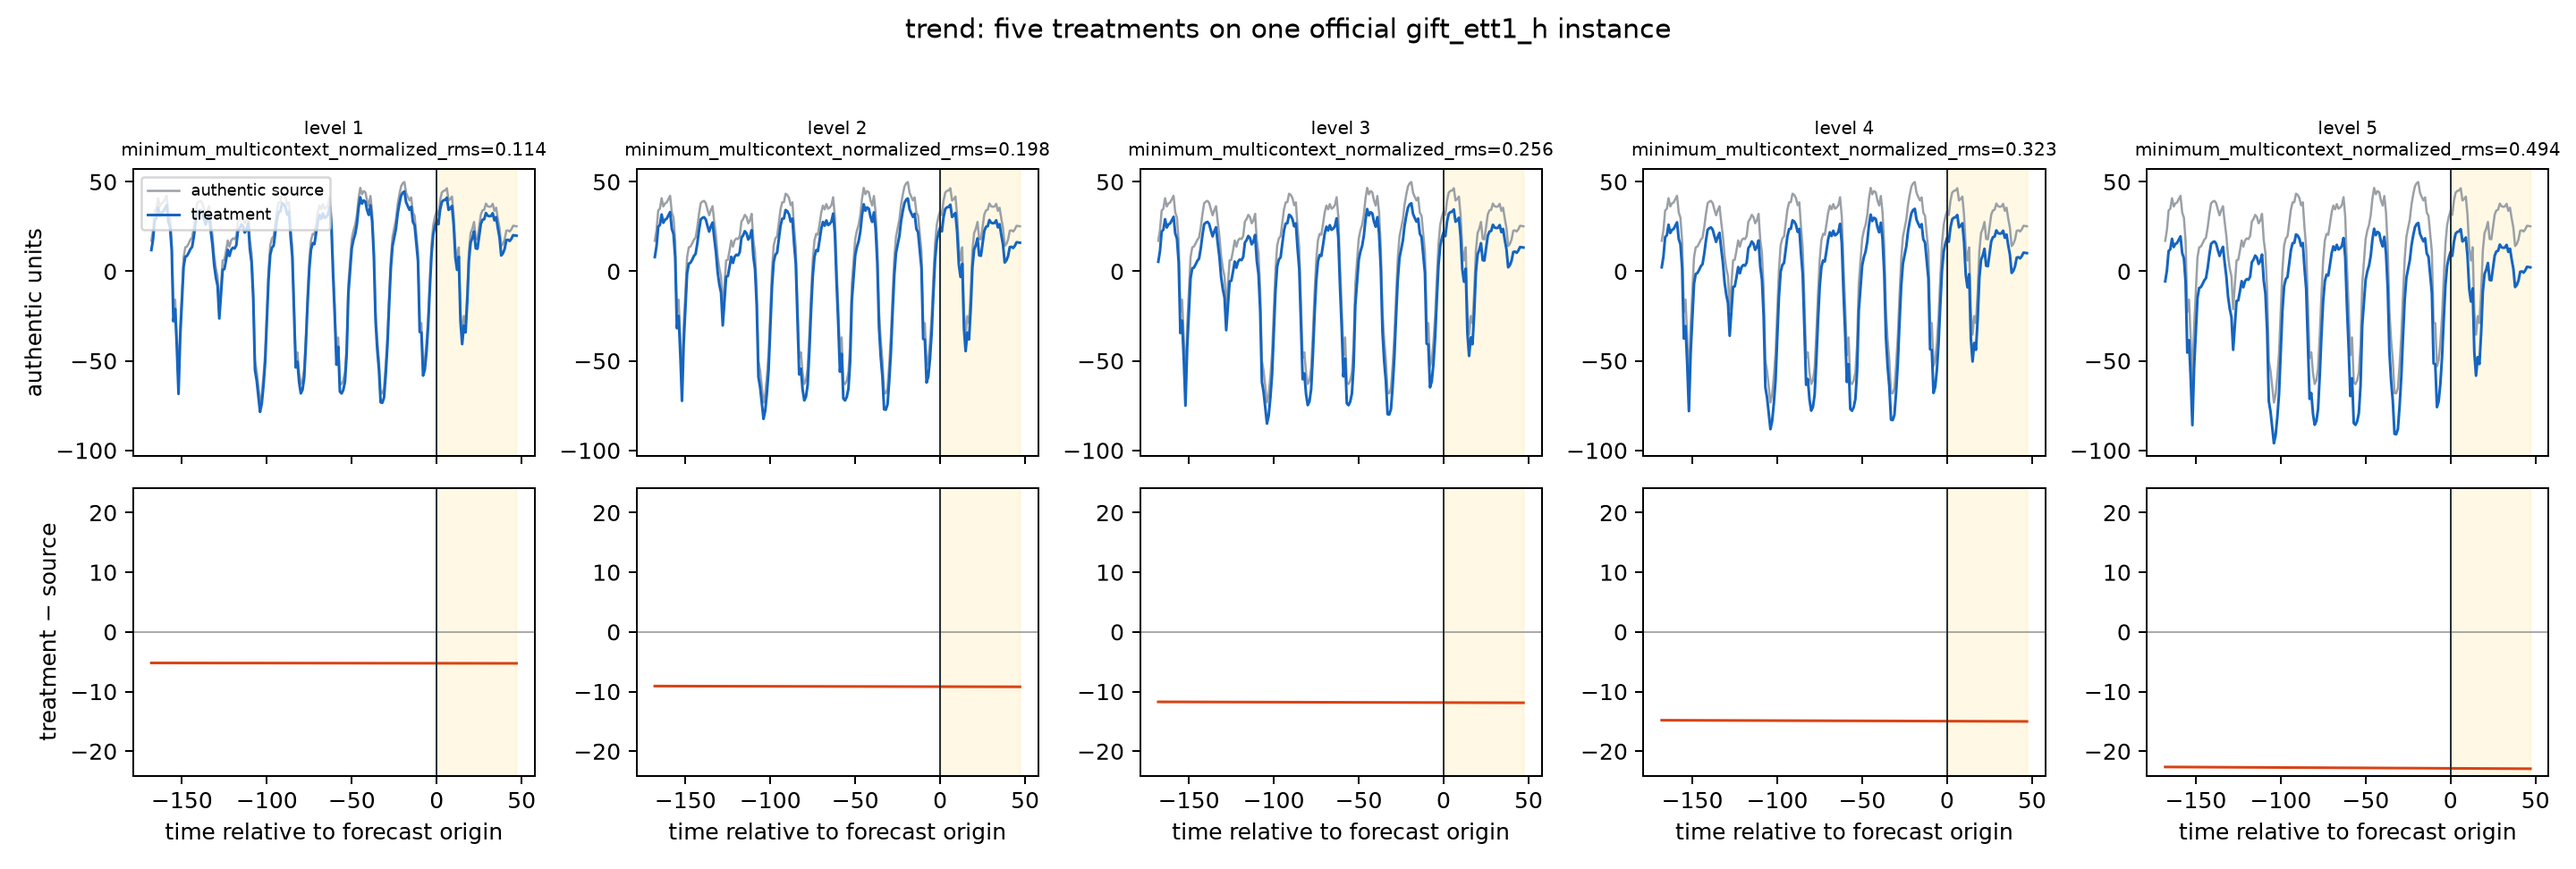
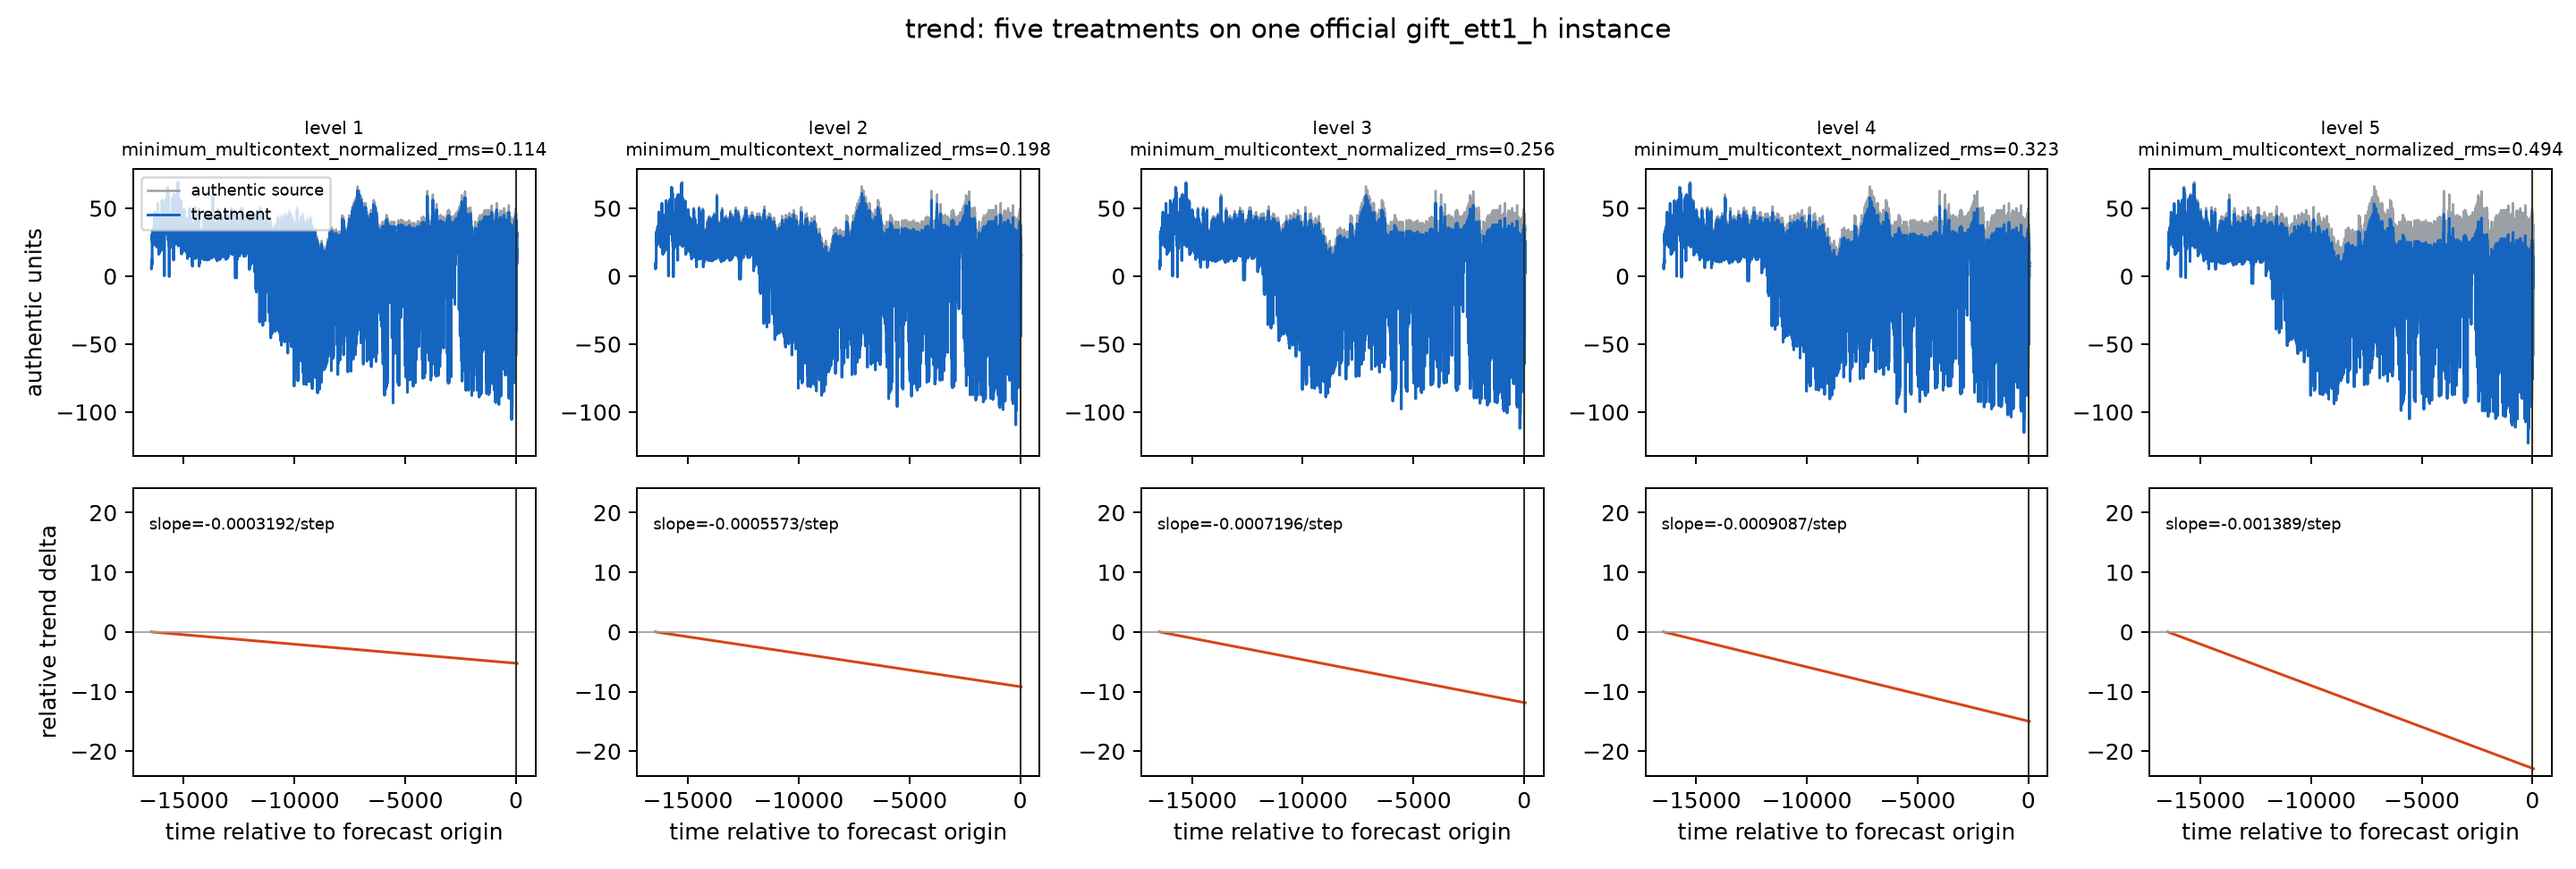
refine native treatment distance policy and figures

diff --git a/tools/plotting/native_extension_examples.py b/tools/plotting/native_extension_examples.py
@@ -13,7 +13,6 @@ from cafe.benchmark_extension.mechanisms import CAPABILITY_IDS
 
 
 PLOTTER_SCHEMA = "cafe.native_extension_example_plotter.v1"
-DISPLAY_HISTORY = 168
 
 
 def parse_args() -> argparse.Namespace:
@@ -66,7 +65,7 @@ def _plot_group(
     horizon = int(baseline["horizon"])
     affected = [int(value) for value in rows[0]["affected_target_indices"]]
     channel = affected[0]
-    start = max(0, context - DISPLAY_HISTORY)
+    start = 0
     x = np.arange(start - context, horizon)
     source = baseline_target[start:, channel]
     treatment_values = [np.asarray(row["target"], dtype=float)[start:, channel] for row in rows]
@@ -74,9 +73,15 @@ def _plot_group(
     margin = max(1e-6, 0.05 * float(np.ptp(all_values)))
     y_limits = (float(np.min(all_values) - margin), float(np.max(all_values) + margin))
     delta_values = [values - source for values in treatment_values]
-    delta_limit = max(max(float(np.max(np.abs(delta))) for delta in delta_values), 1e-6)
+    displayed_deltas = delta_values
+    delta_limit = max(
+        max(float(np.max(np.abs(delta))) for delta in displayed_deltas),
+        1e-6,
+    )
     figure, axes = plt.subplots(2, 5, figsize=(16, 5.4), sharex=True)
-    for index, (row, values, delta) in enumerate(zip(rows, treatment_values, delta_values, strict=True)):
+    for index, (row, values, delta, displayed_delta) in enumerate(
+        zip(rows, treatment_values, delta_values, displayed_deltas, strict=True)
+    ):
         axis = axes[0, index]
         axis.plot(x, source, color="#9aa0a6", linewidth=1.0, label="authentic source")
         axis.plot(x, values, color="#1565c0", linewidth=1.2, label="treatment")
@@ -89,14 +94,26 @@ def _plot_group(
             fontsize=8,
         )
         bottom = axes[1, index]
-        bottom.plot(x, delta, color="#d84315", linewidth=1.2)
+        bottom.plot(x, displayed_delta, color="#d84315", linewidth=1.2)
         bottom.axhline(0, color="#9e9e9e", linewidth=0.7)
         bottom.axvline(0, color="#263238", linewidth=0.8)
         bottom.axvspan(0, horizon - 1, color="#ffecb3", alpha=0.35)
         bottom.set_ylim(-1.05 * delta_limit, 1.05 * delta_limit)
         bottom.set_xlabel("time relative to forecast origin")
+        if capability == "trend":
+            slope = float(np.mean(np.diff(delta[: context - start])))
+            bottom.text(
+                0.04,
+                0.90,
+                f"slope={slope:.4g}/step",
+                transform=bottom.transAxes,
+                fontsize=7,
+                va="top",
+            )
     axes[0, 0].set_ylabel("authentic units")
-    axes[1, 0].set_ylabel("treatment − source")
+    axes[1, 0].set_ylabel(
+        "relative trend delta" if capability == "trend" else "treatment − source"
+    )
     axes[0, 0].legend(loc="upper left", fontsize=7)
     figure.suptitle(
         f"{capability}: five treatments on one official {baseline['dataset_id']} instance",
@@ -115,7 +132,8 @@ def _plot_group(
         "official_instance_id": baseline["official_instance_id"],
         "baseline_sample_id": baseline["sample_id"],
         "affected_target_index_shown": channel,
-        "display_history": min(DISPLAY_HISTORY, context),
+        "display_history": context,
+        "delta_display": "treatment_minus_source",
         "full_treatment_history": context,
         "horizon": horizon,
         "augmentation_seed": rows[0]["augmentation_seed"],
@@ -200,8 +218,8 @@ def main() -> int:
             "lexicographically_first_validated_official_instance_per_capability"
         ),
         "figure_semantics": (
-            "benchmark_truth_paths_not_model_predictions_last_l168_display_only_"
-            "treatment_was_applied_to_full_official_history"
+            "benchmark_truth_paths_not_model_predictions_complete_official_"
+            "instance_history_and_future"
         ),
         "records": records,
     }

diff --git a/src/cafe/benchmark_extension/mechanisms.py b/src/cafe/benchmark_extension/mechanisms.py
@@ -11,7 +11,7 @@ from cafe import core as protocol
 from cafe.benchmark_extension.gift_eval import GiftEvalInstance
 
 
-MECHANISM_SCHEMA = "cafe.native_path_mechanism.v1"
+MECHANISM_SCHEMA = "cafe.native_path_mechanism.v2"
 CAPABILITY_IDS = (
     "trend",
     "multi_seasonal",
@@ -31,8 +31,6 @@ GENERATABLE_CAPABILITY_IDS = tuple(
 )
 CAPABILITY_LEVELS = (1, 2, 3, 4, 5)
 SOURCE_DISTANCE_THRESHOLD = 0.10
-MAXIMUM_MACRO_DISTANCE = 1.0
-MAXIMUM_CHANNEL_DISTANCE = 1.5
 SOURCE_DISTANCE_SUFFIXES = (96, 168, 336, 512, 1024)
 STRENGTH_INTERVALS = (
     (0.10, 0.14),
@@ -146,26 +144,21 @@ def _distance_gate(
     maximum_channel = max(
         max(row["channel_normalized_rms"], default=0.0) for row in by_suffix
     )
-    accepted = bool(
-        minimum_macro >= SOURCE_DISTANCE_THRESHOLD - 1e-12
-        and maximum_macro <= MAXIMUM_MACRO_DISTANCE + 1e-12
-        and maximum_channel <= MAXIMUM_CHANNEL_DISTANCE + 1e-12
-    )
+    accepted = bool(minimum_macro >= SOURCE_DISTANCE_THRESHOLD - 1e-12)
     return {
-        "schema_version": "cafe.treatment_source_distance_gate.v1",
+        "schema_version": "cafe.treatment_source_distance_gate.v2",
         "metric": "source_frozen_scale_multicontext_normalized_rms",
         "scope": "treatment_history_vs_authentic_official_history",
         "treatment_only": True,
         "suffix_contexts": suffixes,
         "minimum_required_distance": SOURCE_DISTANCE_THRESHOLD,
-        "maximum_macro_distance": MAXIMUM_MACRO_DISTANCE,
-        "maximum_channel_distance": MAXIMUM_CHANNEL_DISTANCE,
         "minimum_observed_macro_distance": minimum_macro,
+        # Maxima remain descriptive diagnostics; they are not acceptance limits.
         "maximum_observed_macro_distance": maximum_macro,
         "maximum_observed_channel_distance": maximum_channel,
         "by_suffix": by_suffix,
         "accepted": accepted,
-        "reason": None if accepted else "outside_source_distance_band",
+        "reason": None if accepted else "below_minimum_source_distance",
     }
 
 
@@ -959,7 +952,7 @@ def build_capability_group(
             "parameter_draw_sha256": protocol.json_sha256(parameter_payload),
             "target_future_used_for_fit_or_parameter_draw": False,
             "source_distance_policy": (
-                "treatment_only_multicontext_source_frozen_normalized_rms_v1"
+                "treatment_only_multicontext_minimum_source_distance_v2"
             ),
         },
     )

diff --git a/tests/test_native_path_mechanisms.py b/tests/test_native_path_mechanisms.py
@@ -5,6 +5,7 @@ import numpy as np
 from cafe.benchmark_extension.gift_eval import GiftEvalInstance
 from cafe.benchmark_extension.mechanisms import (
     SOURCE_DISTANCE_THRESHOLD,
+    _distance_gate,
     build_capability_group,
 )
 
@@ -108,6 +109,16 @@ def test_treatment_distance_gate_is_from_authentic_source_not_adjacent_level() -
         >= SOURCE_DISTANCE_THRESHOLD - 1e-12
         for treatment in group.treatments
     )
+
+
+def test_treatment_distance_gate_has_no_upper_rejection_threshold() -> None:
+    history = np.column_stack((np.arange(120.0), np.arange(120.0)))
+    delta = np.full_like(history, 1000.0)
+    gate = _distance_gate(delta, history, (0, 1))
+    assert gate["accepted"]
+    assert gate["maximum_observed_macro_distance"] > 1.0
+    assert "maximum_macro_distance" not in gate
+    assert "maximum_channel_distance" not in gate
 
 
 def test_common_and_cross_use_native_panel_without_channel_tasks() -> None:

diff --git a/src/cafe/benchmark_extension/generation.py b/src/cafe/benchmark_extension/generation.py
@@ -355,7 +355,7 @@ def generate_dataset(
             "counter_based_by_official_instance_capability_level_and_augmentation_seed"
         ),
         "source_distance_policy": (
-            "treatment_only_multicontext_source_frozen_normalized_rms_v1"
+            "treatment_only_multicontext_minimum_source_distance_v2"
         ),
     }
     manifest = {

diff --git a/docs/real_anchored_ten_capability_design.md b/docs/real_anchored_ten_capability_design.md
@@ -166,18 +166,19 @@ coefficient is enhanced.
 
 Each treatment—not adjacent levels—is compared with its authentic source on
 all available suffixes in `{96,168,336,512,1024,L}`. The minimum normalized
-RMS is 0.10. Macro and per-target upper limits are 1.0 and 1.5. Regime and
-intermittency solve one shared amplitude from the weakest level, preserving
-their location/sparsity coordinate across the five-level group.
+RMS is 0.10, with no upper distance threshold. Regime and intermittency solve
+one shared amplitude from the weakest level, preserving their
+location/sparsity coordinate across the five-level group.
 
 ## Actual v6 curve examples
 
 These figures come from validated v6 generation artifacts, not an
 illustrative synthetic generator or model forecasts. Five columns are the
 five independently drawn level parameters. Grey is the authentic official
-source, blue is the treatment, and the lower row is their difference. The
-display uses the final L168 and official future for readability; generation
-treated the complete official history before model-specific truncation. Each
+source, blue is the treatment, and the lower row is their difference. Every
+figure displays that official instance's complete input history and official
+future; generation applies the same treatment before model-specific context
+truncation. Each
 source is the lexicographically first validated group, selected without future
 targets or model results.
 
@@ -186,7 +187,9 @@ targets or model results.
 ![Trend five-level example](figures/native-extension-examples/01_trend__five_levels.png)
 
 Source: `gift_ett1_h`, official origin `o16460`. The ramp follows the
-history-estimated trend sign.
+history-estimated trend sign. Since the complete official history is shown,
+the lower row directly displays the uncentered linear difference from the
+history start, with its slope increasing across levels.
 
 ### Multi-seasonal
 

diff --git a/docs/protocol.md b/docs/protocol.md
@@ -79,16 +79,14 @@ The checked suffixes are the available members of
 `{96,168,336,512,1024,L}`. Every treatment satisfies
 
 \[
-\min_C d_C\ge 0.10,
-\qquad \max_C d_C\le1.0,
-\qquad \max_{C,d} d_{C,d}\le1.5.
+\min_C d_C\ge 0.10.
 \]
 
 For amplitude-controlled mechanisms the physical gain maps the sampled level
 coordinate to the distance range. For regime and intermittency, one shared
 amplitude is solved from the weakest of the five location/sparsity treatments.
-The whole five-level group is unavailable when the lower and upper conditions
-cannot both be met.
+There is no upper distance threshold. The whole five-level group is unavailable
+when any treatment does not reach the lower bound.
 
 ## 5. Capability availability
 

diff --git a/项目决策.md b/项目决策.md
@@ -1,0 +1,7 @@
+# 项目决策
+
+## 2026-08-17 — Treatment 与原样本的距离只设下限
+
+Treatment-to-source 距离校验只用于防止增强样本与原样本过于接近，
+不再设置最大距离或最大单通道距离。原因是项目需要的是最小分离保证，
+距离上限会额外删除强增强样本，不属于当前 benchmark extension 的目标。
